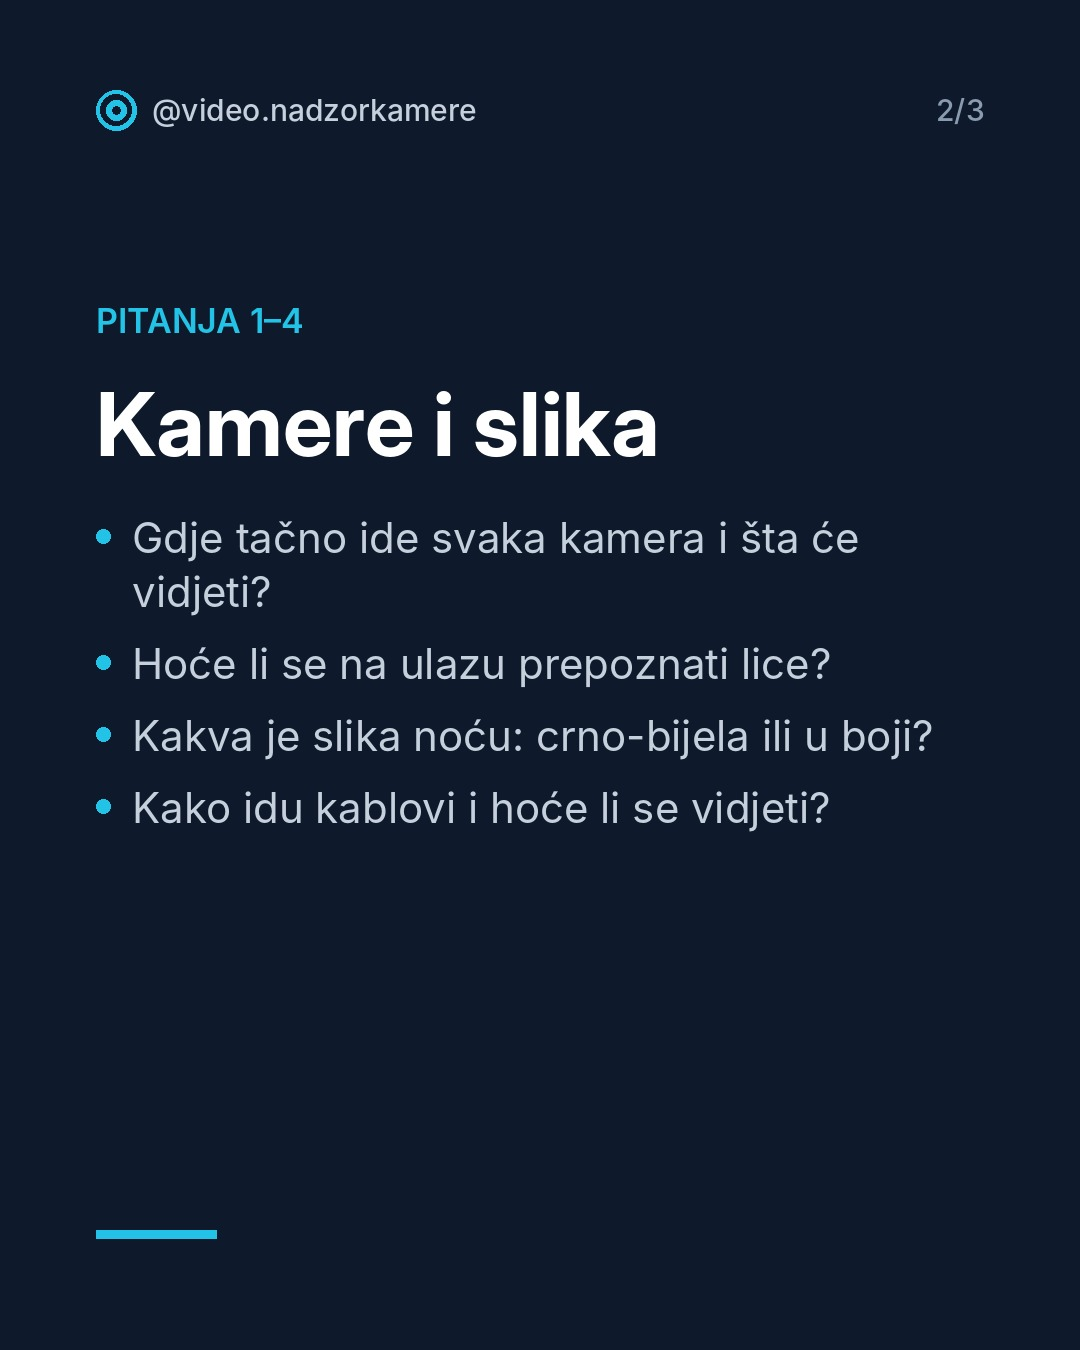
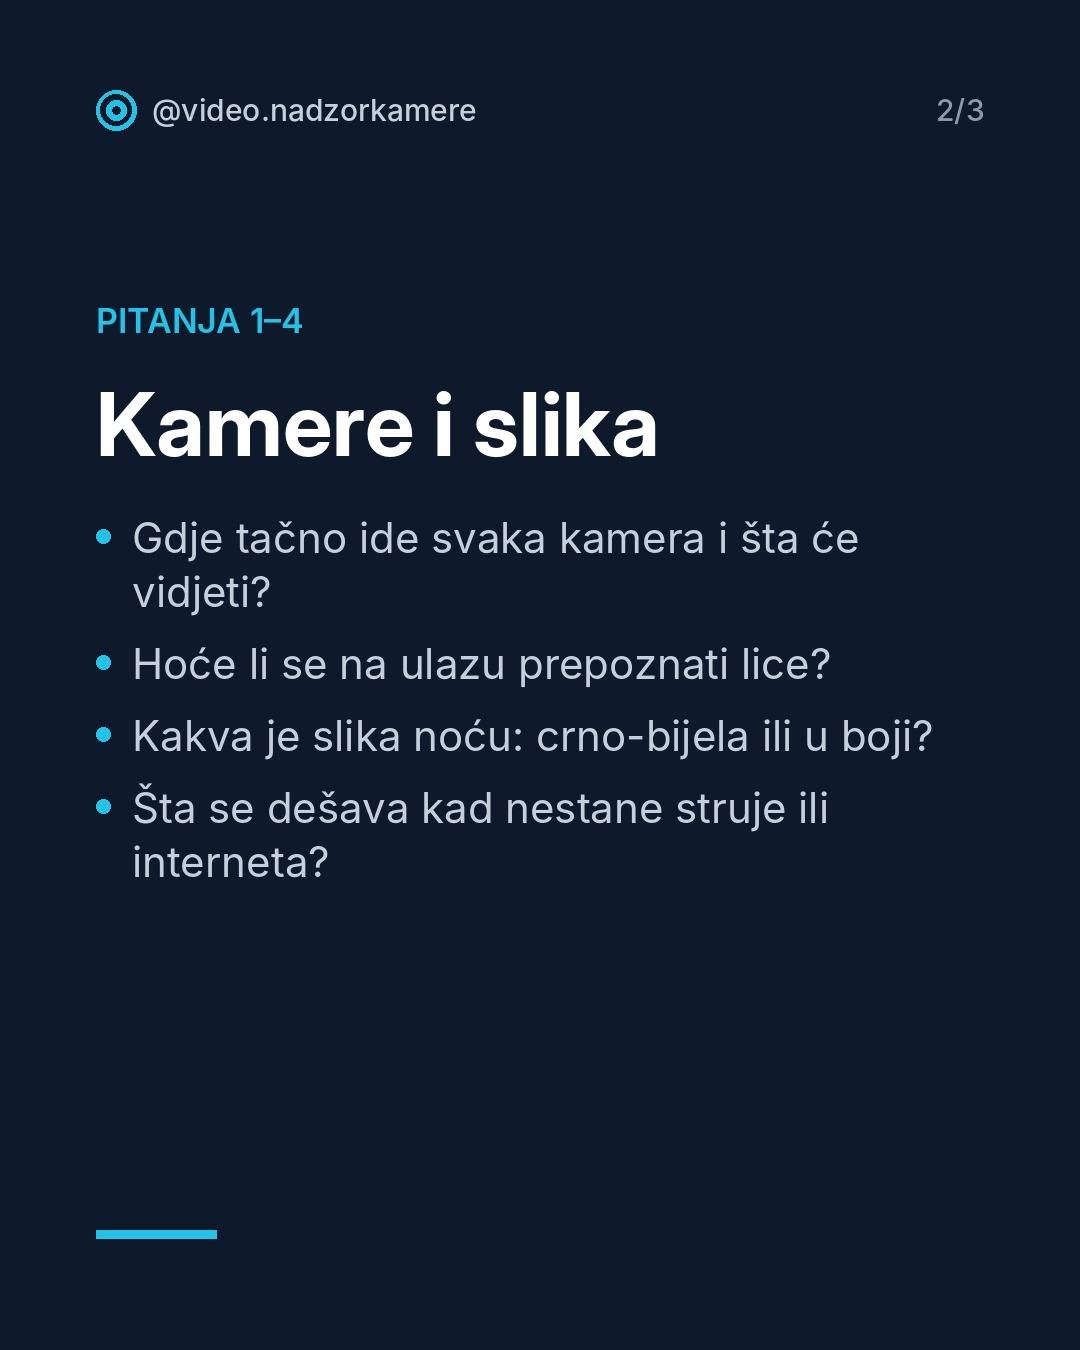
Bez 'kablovi se ne vide' u tekstovima; 15.11. pitanje zamijenjeno; oglasi u grupama bez linka
Claude-Session: https://claude.ai/code/session_01A8S3e79bgZ6Y4iqq72PSVn

Changed region(s): [[0.1222, 0.56, 0.7639, 0.6533]]

diff --git a/pravila/zajednica.md b/pravila/zajednica.md
@@ -34,6 +34,7 @@ Radi se kad je računar upaljen (zakazani zadatak "Instagram – dnevna objava i
   - Prnjavor, Tesanj, Doboj, Modrica OGLASI (8,6 hilj.)
   - Gradnja kuće savjeti i iskustva (9,5 hilj., privatna; tu samo korisni savjeti, bez oglasa)
   - Grupe prodavaca opreme za video nadzor se preskaču (to su konkurenti, ne kupci).
+- Oglasi i objave u grupama: bez "kablovi se ne vide" i sličnog (pravilo "Tekst bez nametanja" u identitet.md). U oglasnim grupama (kupovina/prodaja) ide oglas usluge bez linka, ne savjet sa linkom: savjeti sa linkom su uklonjeni u 4 grupe (31.10. do 3.11.).
 - Prije objave provjeri da je u gornjem desnom uglu Facebooka aktivan profil stranice (logo), ne Igorov.
 - Jedna objava dnevno, u jednoj grupi; ista grupa najviše jednom sedmično. Evidencija: `07_statistika/grupe.csv` (datum;grupa;tema;status).
 - Sadržaj: koristan savjet iz neke od naših objava (3 do 6 redova) + link https://www.instagram.com/video.nadzorkamere/ + "Za ugradnju ili savjet pošalji poruku sa brojem telefona i mjestom, javiću se." Bez cijena, bez "najbolji/najjeftiniji", bez područja rada.

diff --git a/pravila/identitet.md b/pravila/identitet.md
@@ -9,6 +9,8 @@ Profil za ugradnju i servis video nadzora (Dahua i Hikvision) za kuće, radnje i
 
 **Realna montaža:** na svakoj fotki kamere kablovi se ne vide (idu kroz zid, kamera na razvodnoj kutiji), a kamera za ulaz nikad nije iznad vrata ni nadstrešnice nego pored vrata na 2,5 do 3 m. Slika koja to ne poštuje ne ide u objavu.
 
+**Tekst bez nametanja (Igor, 3.11.2026):** u opisima, na slajdovima i u oglasima po grupama ne pišemo "kablovi se ne vide", "skriveni kablovi" i slično. Ne insinuiramo nešto što kupci nisu ni pitali. O kablovima pišemo samo kad je tema objave baš kabl ili kad neko pita. Pravilo za fotke (realna montaža) ostaje.
+
 **Cilj svake objave:** da potencijalni kupac kontaktira Igora ili ostavi broj telefona da ga Igor nazove, pa Igor izlazi na teren i pravi ponudu. Zato svaki opis završava pozivom tipa "Pošalji mi u DM broj telefona i mjesto, nazvaću te. Procjena je besplatna." Bez cijena u objavama. Izlazak na teren se ne obećava kao besplatan: o njemu se Igor dogovara u pozivu, zavisno od posla.
 
 
